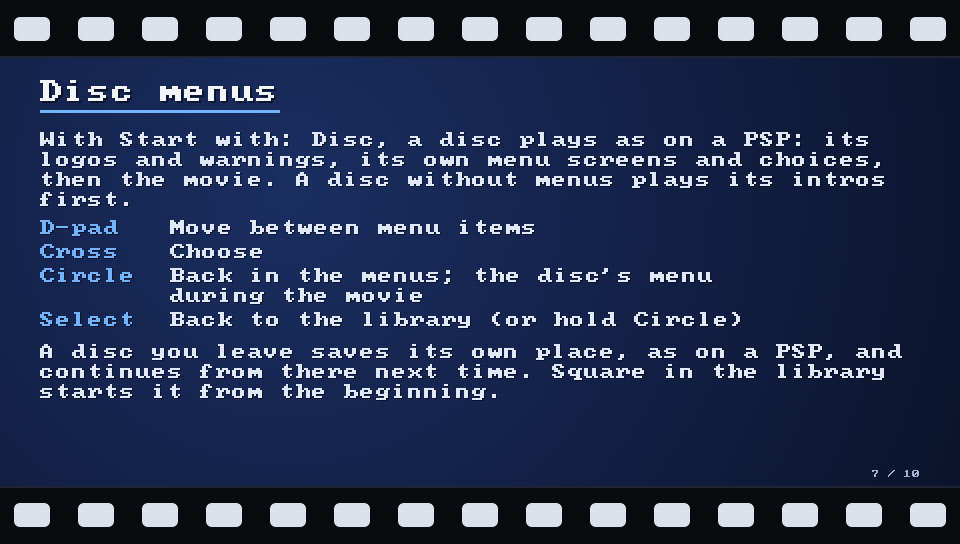
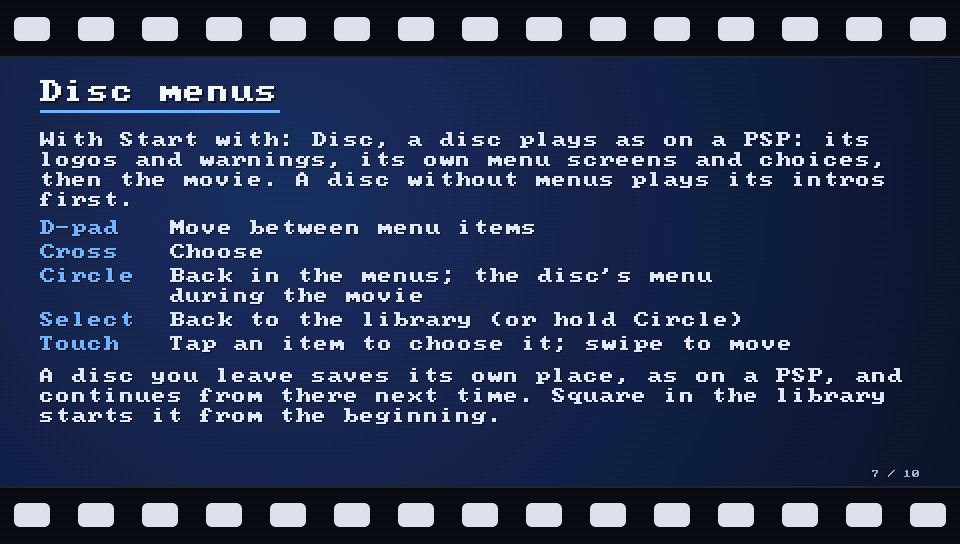
Touch in disc menus; one Cross plays a scene; images keep their own size
Disc menus take the touch screen while they have focus: a tap on a button,
or within 100 px of one, focuses and chooses it; a tap away from every
button is Cross, for menus that move their own highlight; a swipe is a
direction button. The player ignores touch meanwhile. menutest gains tap
and swipe.

The Cross that picks a scene closes the menu page in the same frame, and the
player then took it as pause. A press the menus had focus for no longer
reaches the player.

A menu image stretches to its widget only when the two have the same shape
(within 1.5%) or the image is 16 px or less; otherwise it is drawn at its own
size. The Bourne Supremacy's 50x15 labels sat in 130x40 widgets and were
enlarged on top of each other.

Changed region(s): [[0.0312, 0.625, 0.9375, 0.7812]]

diff --git a/src/app/menu.c b/src/app/menu.c
@@ -99,6 +99,7 @@ struct menu {
     float win[4];
     int win_set;
     int drawn_once;           /* menu_draw has drawn the whole canvas once */
+    int touch_down, touch_x0, touch_y0, touch_x, touch_y;   /* menu_touch: where a finger went down, and is */
     int depth;                /* script calls in progress */
     int settling;
     struct { const char *event; int widget; res *from; } queue[64];
@@ -1706,14 +1707,17 @@ static void collect(res *r, canvas *c, int i, const xform *parent, sprite *list,
             sprite *s = &list[*count];
             float sxu = (float)c->w / UNITS_W, syu = (float)c->h / UNITS_H;
             float width = w->size[0] > 0 ? w->size[0] : (float)iw, height = w->size[1] > 0 ? w->size[1] : (float)ih;
-            /* The image keeps its shape inside the widget's size: 2Fast2Furious and The Bourne
-               Supremacy size their label buttons for the longest translation, and the PSP
-               draws each label at its own proportions. Tiny images (a 1x1 black fade, a 5x5
-               blank) are colour fills and stretch over the whole widget. */
-            if ((iw > FILL_MAX || ih > FILL_MAX) && iw > 0 && ih > 0) {
-                float k = width / (float)iw < height / (float)ih ? width / (float)iw : height / (float)ih;
-                width = (float)iw * k;
-                height = (float)ih * k;
+            /* An image stretches to its widget's size only when the two have the same shape
+               (16:9 cards and backgrounds) or the image is a tiny colour fill (a 1x1 black
+               fade). Otherwise it is drawn at its own size: 2Fast2Furious and The Bourne
+               Supremacy size their label buttons for the longest translation, and on a PSP
+               each label keeps its own size. */
+            if ((iw > FILL_MAX || ih > FILL_MAX) && iw > 0 && ih > 0 && width > 0 && height > 0) {
+                float shape = (width / height) / ((float)iw / (float)ih);
+                if (shape > 1.015f || shape < 0.985f) {   /* the cards and backgrounds match within 1% */
+                    width = (float)iw;
+                    height = (float)ih;
+                }
             }
             /* Left- or right-anchored images: pos is that edge, so move the centre half a width. */
             float shift = r->r.objects[i].anchor == 1 ? width / 2 : r->r.objects[i].anchor == 2 ? -width / 2 : 0;
@@ -1810,4 +1814,95 @@ void menu_draw(menu *m, canvas *c)
     cur ^= 1;
     valid = 1;
     m->dirty = 0;
+}
+
+/* ---- touch ---- */
+
+#define SWIPE_MIN 60          /* screen pixels a finger moves for a swipe */
+#define TAP_MAX   24          /* and at most, for a tap */
+#define TAP_NEAR  100         /* a tap this close to a button, and on no other, chooses it */
+
+/* The button on the active page under (x, y) on the 960x544 screen, or -1: the topmost visible
+   button image there, else the nearest within TAP_NEAR. Bourne's scene buttons are the numbers
+   under the thumbnails, so a tap on a thumbnail picks the number below it. */
+static int button_at(menu *m, int x, int y)
+{
+    static sprite list[MAX_SPRITES];
+    res *r = m->res;
+    canvas c = {NULL, 960, 544, 960 * 4};
+    xform root;
+    int n = 0;
+
+    memset(&root, 0, sizeof(root));
+    for (int k = 0; k < 3; k++)
+        root.l[k][k] = 1;
+    for (int k = 0; k < 4; k++)
+        root.color[k] = 1;
+    collect(r, &c, r->active, &root, list, &n);
+    for (int k = n - 1; k >= 0; k--) {
+        const sprite *s = &list[k];
+        if (r->r.objects[s->widget].kind == RCO_BUTTON && s->color[3] > 0.05f &&
+            x >= s->box[0] && x < s->box[2] && y >= s->box[1] && y < s->box[3])
+            return s->widget;
+    }
+    {
+        int best = -1, best_d = TAP_NEAR * TAP_NEAR + 1;
+        for (int k = 0; k < n; k++) {
+            const sprite *s = &list[k];
+            int ddx = x < s->box[0] ? s->box[0] - x : x >= s->box[2] ? x - s->box[2] + 1 : 0;
+            int ddy = y < s->box[1] ? s->box[1] - y : y >= s->box[3] ? y - s->box[3] + 1 : 0;
+            if (r->r.objects[s->widget].kind == RCO_BUTTON && s->color[3] > 0.05f && ddx * ddx + ddy * ddy < best_d) {
+                best = s->widget;
+                best_d = ddx * ddx + ddy * ddy;
+            }
+        }
+        return best;
+    }
+}
+
+void menu_touch(menu *m, int down, int x, int y)
+{
+    res *r = m->res;
+    int dx, dy, b;
+
+    if (down) {
+        if (!m->touch_down) {
+            m->touch_down = 1;
+            m->touch_x0 = x;
+            m->touch_y0 = y;
+        }
+        m->touch_x = x;
+        m->touch_y = y;
+        return;
+    }
+    if (!m->touch_down)
+        return;
+    m->touch_down = 0;
+    if (r->active < 0 || m->lock)
+        return;
+    dx = m->touch_x - m->touch_x0;
+    dy = m->touch_y - m->touch_y0;
+    /* A swipe is a direction button, so menus that move their highlight in script follow it. */
+    if (abs(dx) >= SWIPE_MIN || abs(dy) >= SWIPE_MIN) {
+        if (abs(dx) > abs(dy))
+            do_input(m, dx > 0 ? PLAT_BTN_RIGHT : PLAT_BTN_LEFT);
+        else
+            do_input(m, dy > 0 ? PLAT_BTN_DOWN : PLAT_BTN_UP);
+        return;
+    }
+    if (abs(dx) > TAP_MAX || abs(dy) > TAP_MAX)
+        return;
+    if ((b = button_at(m, m->touch_x0, m->touch_y0)) < 0) {
+        /* Nothing to tap: menus that move a highlight in script (Summer Days' choices, a Nav
+           button) get Cross, so a swipe picks and a tap chooses. */
+        do_input(m, PLAT_BTN_CROSS);
+        return;
+    }
+    /* A tap on a button: focus it, as the D-pad would, then choose it. */
+    if (r->focus[r->active] != b) {
+        set_focus(m, b);
+        if (m->res != r || m->lock)
+            return;
+    }
+    do_action_named(m, &r->r.objects[b].action[RCO_BTN_PUSH], b, "onPush");
 }

diff --git a/tools/menutest.c b/tools/menutest.c
@@ -7,8 +7,9 @@
                                       run the disc's menus (src/app/menu.c) with a simulated
                                       player on a virtual clock: titles end after their length,
                                       buttons are pressed at the given times (up down left right
-                                      cross circle triangle start, and menu for the menu button
-                                      during playback), and with -o every new menu
+                                      cross circle triangle start, menu for the menu button
+                                      during playback, tap:x:y and swipe:x0:y0:x1:y1 on the
+                                      960x544 touch screen), and with -o every new menu
                                       picture is saved as dir/menu-<ms>.ppm, over the 960x544
                                       PNG given with -b (a frame of the menu video). With -s,
                                       the disc continues from the state in <file> if there is
@@ -359,6 +360,17 @@ static int run_disc(int argc, char **argv)
                 printf("%8.2f s  press %s\n", s.now / 1e6, b + 1);
                 if (strcmp(b + 1, "menu") == 0)      /* Circle during playback, in src/app/disc.c */
                     menu_menu_button(m);
+                {
+                    int x0, y0, x1, y1;
+                    if (sscanf(b + 1, "tap:%d:%d", &x0, &y0) == 2) {
+                        menu_touch(m, 1, x0, y0);
+                        menu_touch(m, 0, 0, 0);
+                    } else if (sscanf(b + 1, "swipe:%d:%d:%d:%d", &x0, &y0, &x1, &y1) == 4) {
+                        menu_touch(m, 1, x0, y0);
+                        menu_touch(m, 1, x1, y1);
+                        menu_touch(m, 0, 0, 0);
+                    }
+                }
             }
         }
         if (s.st.playing && !s.st.paused) {

diff --git a/src/app/player.c b/src/app/player.c
@@ -186,6 +186,7 @@ struct player {
     int scrubbing;                   /* held long enough to scrub; the seek happens on release */
     uint64_t scrub_start_us, scrub_last_us;
     int touch_down, touch_drag, touch_x, touch_y;   /* a finger on the screen, where it went down */
+    int touch_off;                   /* player_set_touch(0): the disc's menus have the screen */
     int touch_moved;                 /* it moved too far to count as a tap */
     uint64_t touch_us;
     int64_t scrub_target;
@@ -1743,7 +1744,10 @@ int player_update(player *p, uint32_t pressed)
     else
         play_input(p, pressed);
     scrub(p);
-    touch_input(p);
+    if (!p->touch_off)
+        touch_input(p);
+    else
+        p->touch_down = 0;
     if (p->leave)
         return 0;
     if (!p->paused && plat_time_us() - p->last_awake_us > 1000000) {
@@ -1899,4 +1903,9 @@ void player_close(player *p)
     free(p->clp_buf);
     plat_iso_close(&p->src);
     free(p);
+}
+
+void player_set_touch(player *p, int on)
+{
+    p->touch_off = !on;
 }

diff --git a/src/app/disc.c b/src/app/disc.c
@@ -326,7 +326,17 @@ int disc_update(disc *d, uint32_t pressed)
     if (d->pl)
         player_set_layer(d->pl, d->layer_shown ? d->layer.rgba : NULL, d->layer.w, d->layer.h, d->layer.stride,
                          d->layer_id);
-    if (d->pl && !player_update(d->pl, menu_has_focus(d->m) ? 0 : pressed)) {
+    if (menu_focus || menu_has_focus(d->m)) {
+        int tx, ty, down = plat_touch(&tx, &ty);
+        menu_touch(d->m, down, tx, ty);
+    } else {
+        menu_touch(d->m, 0, 0, 0);    /* a finger lifted as the menus closed is no tap */
+    }
+    if (d->pl)
+        player_set_touch(d->pl, !(menu_focus || menu_has_focus(d->m)));
+    /* A press the menus took this frame is theirs, even if it closed their page: the Cross
+       that picks a scene would otherwise also pause the movie it starts. */
+    if (d->pl && !player_update(d->pl, menu_focus || menu_has_focus(d->m) ? 0 : pressed)) {
         /* The player only stops by itself on an error. */
         player_close(d->pl);
         d->pl = NULL;

diff --git a/tools/make_manual.py b/tools/make_manual.py
@@ -198,7 +198,8 @@ def main():
            'screens and choices, then the movie. A disc without menus plays its intros first.')
     p.rows([('D-pad', 'Move between menu items'), ('Cross', 'Choose'),
             ('Circle', 'Back in the menus; the disc\'s menu during the movie'),
-            ('Select', 'Back to the library (or hold Circle)')], key_w=130)
+            ('Select', 'Back to the library (or hold Circle)'),
+            ('Touch', 'Tap an item to choose it; swipe to move')], key_w=130)
     p.y += 8
     p.para('A disc you leave saves its own place, as on a PSP, and continues from there next time. '
            'Square in the library starts it from the beginning.')

diff --git a/src/app/menu.h b/src/app/menu.h
@@ -81,6 +81,10 @@ void menu_debug(const menu *m);
 int menu_dirty(const menu *m);
 /* Draws the open pages into c (UI layer, transparent where nothing is drawn). */
 void menu_draw(menu *m, canvas *c);
+/* The touch screen, once per display refresh while the menus have focus: whether a finger
+   is down and where (960x544). A tap on a button, or near one, focuses and chooses it; a
+   tap away from every button is Cross; a swipe is a direction button. */
+void menu_touch(menu *m, int down, int x, int y);
 /* 1 while the active page has a button to take the buttons; the player should not handle them. */
 int menu_has_focus(const menu *m);
 

diff --git a/src/app/player.h b/src/app/player.h
@@ -59,6 +59,8 @@ void player_set_subtitle(player *p, int subtitle);   /* -1 turns them off */
 void player_set_window(player *p, const float *dst);
 /* Draws this RGBA layer (screen size) instead of the player's own on-screen display, or the
    display again when rgba is NULL. id changes when the picture changes. */
+/* 0 while something else (the disc's menus) takes the touch screen. */
+void player_set_touch(player *p, int on);
 void player_set_layer(player *p, const uint8_t *rgba, int w, int h, int stride, uint32_t id);
 void player_close(player *p);
 

diff --git a/CHANGELOG.md b/CHANGELOG.md
@@ -2,12 +2,15 @@
 
 ## Unreleased
 
+- Disc menus take the touch screen: tap an item to choose it (a tap near a button counts, so Bourne's scene thumbnails work), swipe to move as with the D-pad, and on menus that move their own highlight, tap anywhere to choose.
+- Disc menus: the Cross that chooses a scene no longer also pauses the movie it starts, so one press plays it.
+- Disc menus: an image stretches to its widget only when both have the same shape, or the image is a tiny colour fill; otherwise it keeps its own size, as on a PSP. The Bourne Supremacy's main menu items no longer overlap.
 - Disc menus: getPlayerStatus reports playStatus as the PSP does (0 stopped, 1 playing, 2 paused). Speed no longer stays black after Play Movie.
 - Disc menus: a page without buttons no longer holds the buttons. After choosing a scene in Saw, the movie takes Cross, Triangle and Circle again.
 - Disc menus: Circle on a page that has no Back handler sends the disc's menu event. Saw's Great Titles descriptions go back to the list.
 - Discs with more than about 40 files in a folder play all their titles: a folder whose listing spans several sectors was searched from the wrong place after its first sector (Summer Days clips 35 to 46).
 - Disc menus: movieplayer.play(0, 0), with no title, no longer starts title 1. Speed now shows its warnings and menu instead of starting the movie.
-- Disc menus: images keep their shape inside their widget, and only tiny colour fills stretch. 2Fast2Furious's main menu and The Bourne Supremacy's language list are no longer squashed or overlapping.
+- Disc menus: 2Fast2Furious's main menu and The Bourne Supremacy's language list are no longer squashed or overlapping.
 
 ## v0.5.0 (2026-10-15)
 

diff --git a/docs/manual.md b/docs/manual.md
@@ -101,6 +101,9 @@ With "Start with: Disc", UMD Player runs the disc's own menus: the menu screens,
 | ✕ | Choose the item | Pause or play |
 | ○ | Back, as the disc defines it | Open the disc's menu |
 | Select | Back to the library | Back to the library |
+| Touch | Tap an item to choose it. Swipe to move, as with the D-pad. | As in "Watching a movie" |
+
+Some discs move their highlight themselves and have no items to tap. On those, swipe to the item, then tap anywhere to choose it.
 
 Holding ○ for 1.5 seconds also goes back to the library.
 
